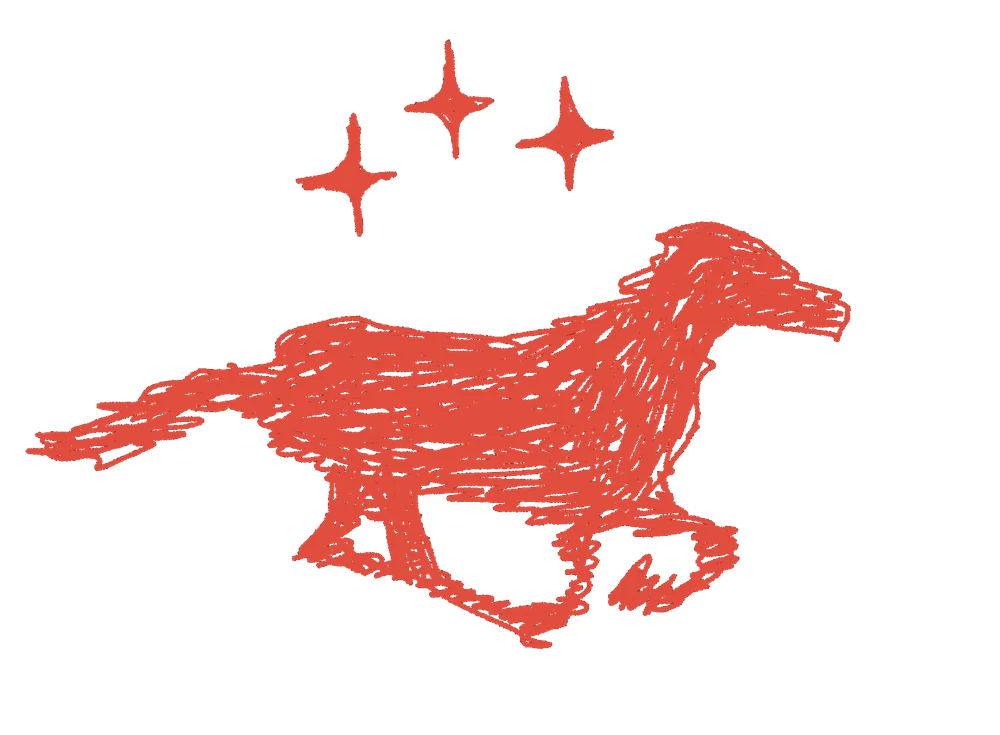
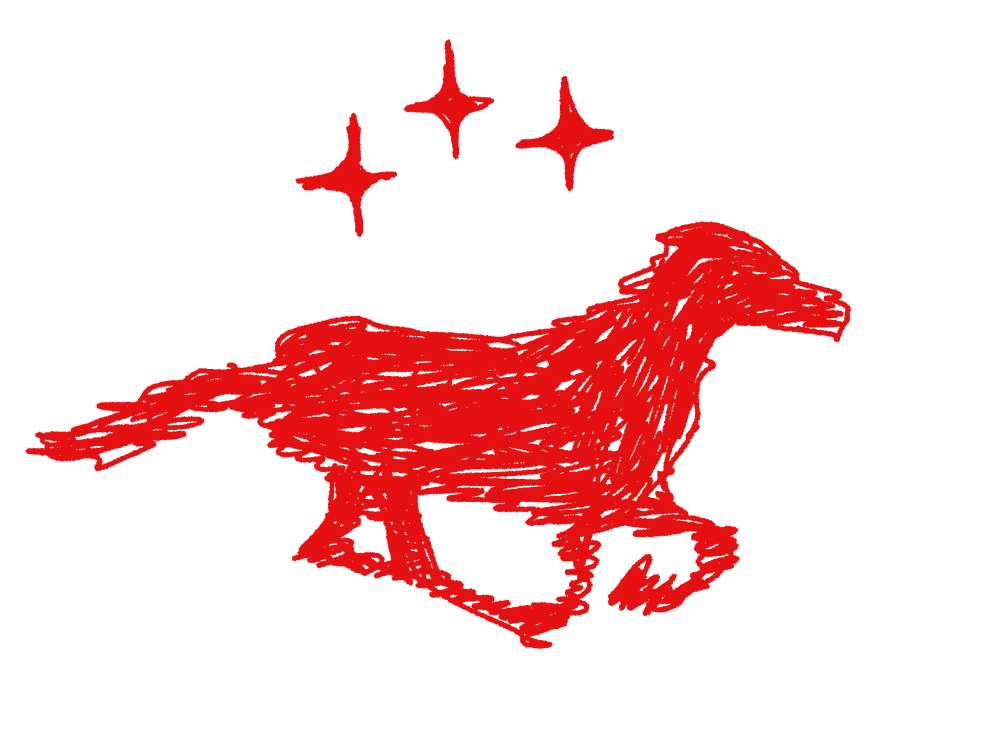
Homepage: all reds #E41010 incl. horse animation; menu revealed from behind the intro
Claude-Session: https://claude.ai/code/session_01WskyRLXqypqshX3CtVVRFg

diff --git a/src/styles/home.css b/src/styles/home.css
@@ -2,19 +2,22 @@
    Homepage
    ========================================================================== */
 body.hp {
-  --hp-red: #E14D3E;          /* the horse's red; name and menu match it */
+  --hp-red: #E41010;          /* one red for name, menu, horse and marks */
   --hp-gutter: clamp(1.25rem, 4vw, 3rem);
   --hp-radius: clamp(18px, 2.5vw, 32px);
   background: #1b2412;
 }
 
 /* ---------- 1. Intro ---------- */
+/* scrolls away on top, its rounded bottom lifting off the menu page beneath */
 .hp-intro {
-  position: sticky;
-  top: 0;
-  z-index: 0;
+  position: relative;
+  z-index: 1;
   height: 100svh;
   overflow: hidden;
+  border-radius: 0 0 var(--hp-radius) var(--hp-radius);
+  isolation: isolate;          /* keeps the video inside this card */
+  background: #1b2412;          /* shows until the video loads */
   display: grid;
   grid-template-rows: auto 1fr;
   justify-items: center;
@@ -43,7 +46,7 @@ body.hp {
   color: var(--hp-red);
   text-transform: uppercase;
   filter: blur(0.55px);
-  text-shadow: 0 0 1px var(--hp-red), 0 0 6px rgba(225, 77, 62, 0.25);
+  text-shadow: 0 0 1px var(--hp-red), 0 0 6px rgba(228, 16, 16, 0.25);
 }
 
 .hp-name {
@@ -86,11 +89,14 @@ body.hp {
 @keyframes hp-bob { 50% { translate: 0 6px; } }
 
 /* ---------- 2. Menu page ---------- */
+/* pinned to the bottom of the window underneath the intro, so it is
+   uncovered as the intro scrolls up */
 .hp-menu {
-  position: relative;
-  z-index: 1;
-  min-height: 100svh;
-  border-radius: var(--hp-radius) var(--hp-radius) 0 0;
+  position: sticky;
+  bottom: 0;
+  z-index: 0;
+  height: 100svh;
+  margin-top: calc(-1 * var(--hp-radius));   /* fills behind the rounded corners */
   overflow: hidden;
   display: flex;
   align-items: center;
